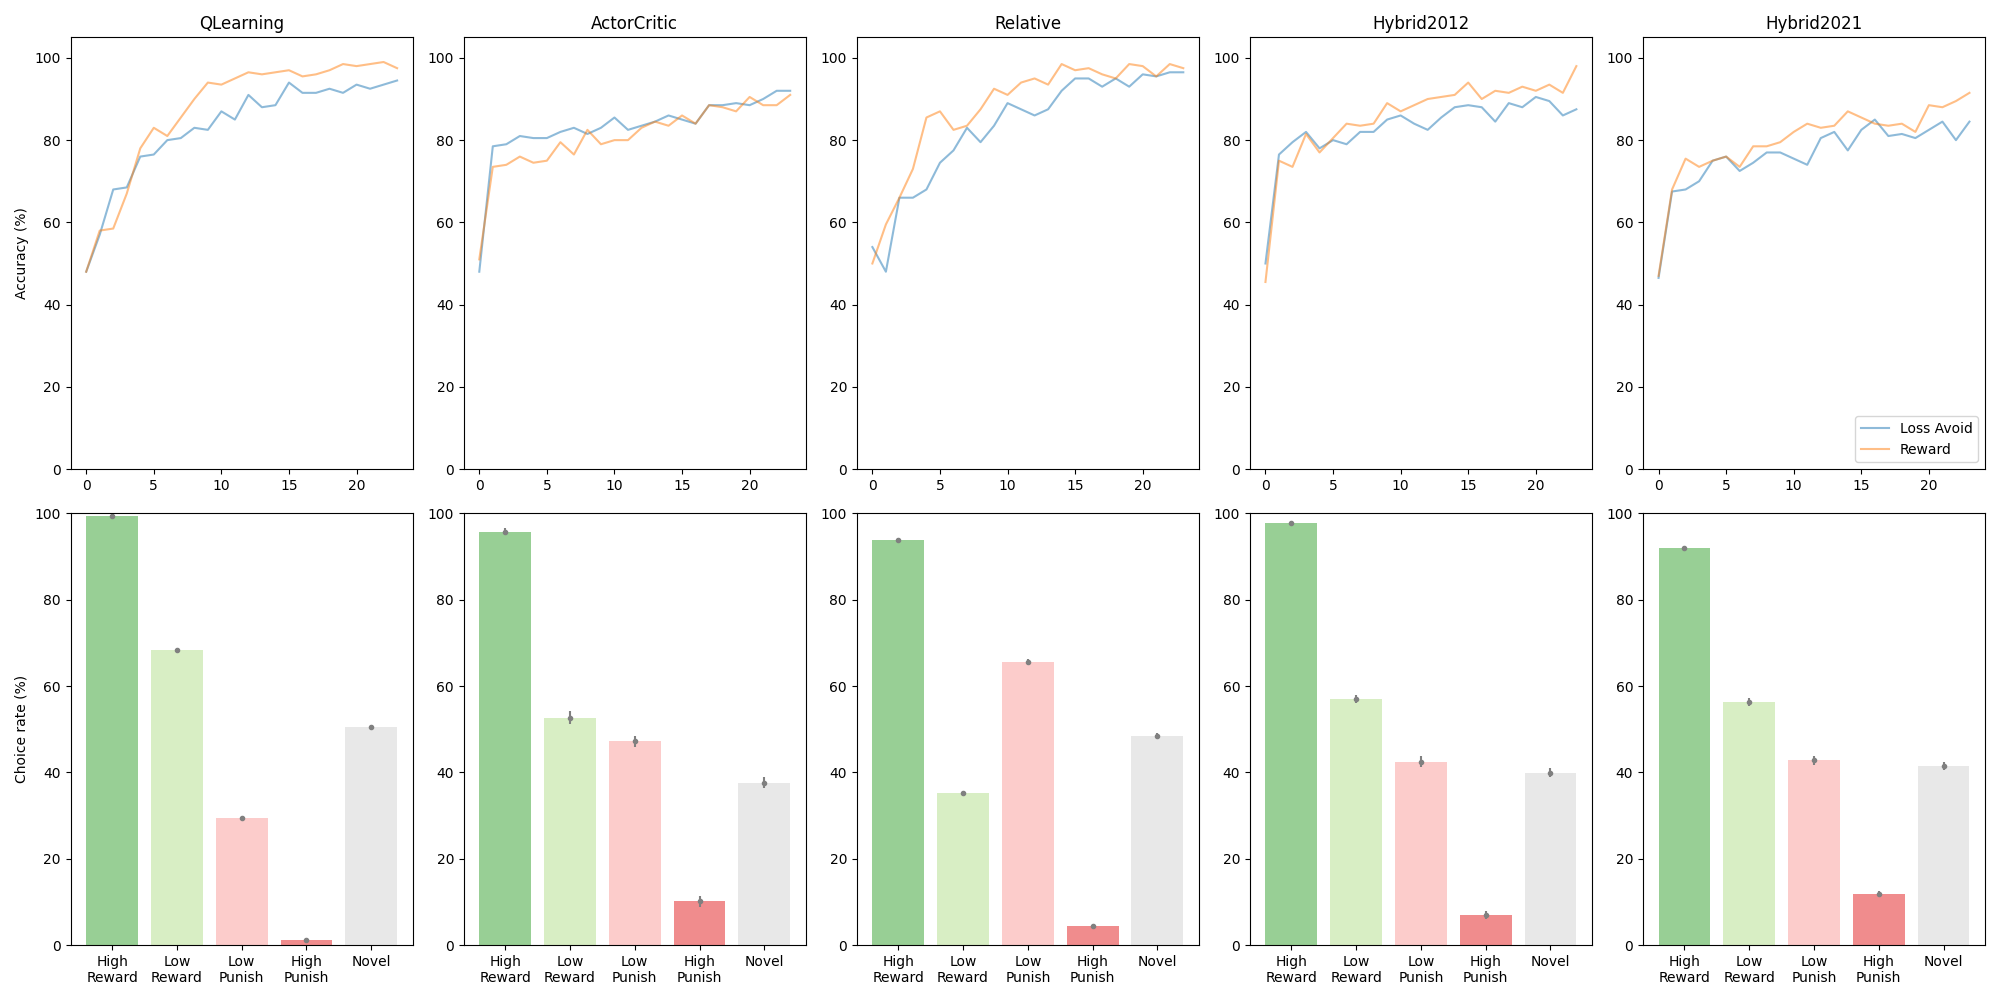
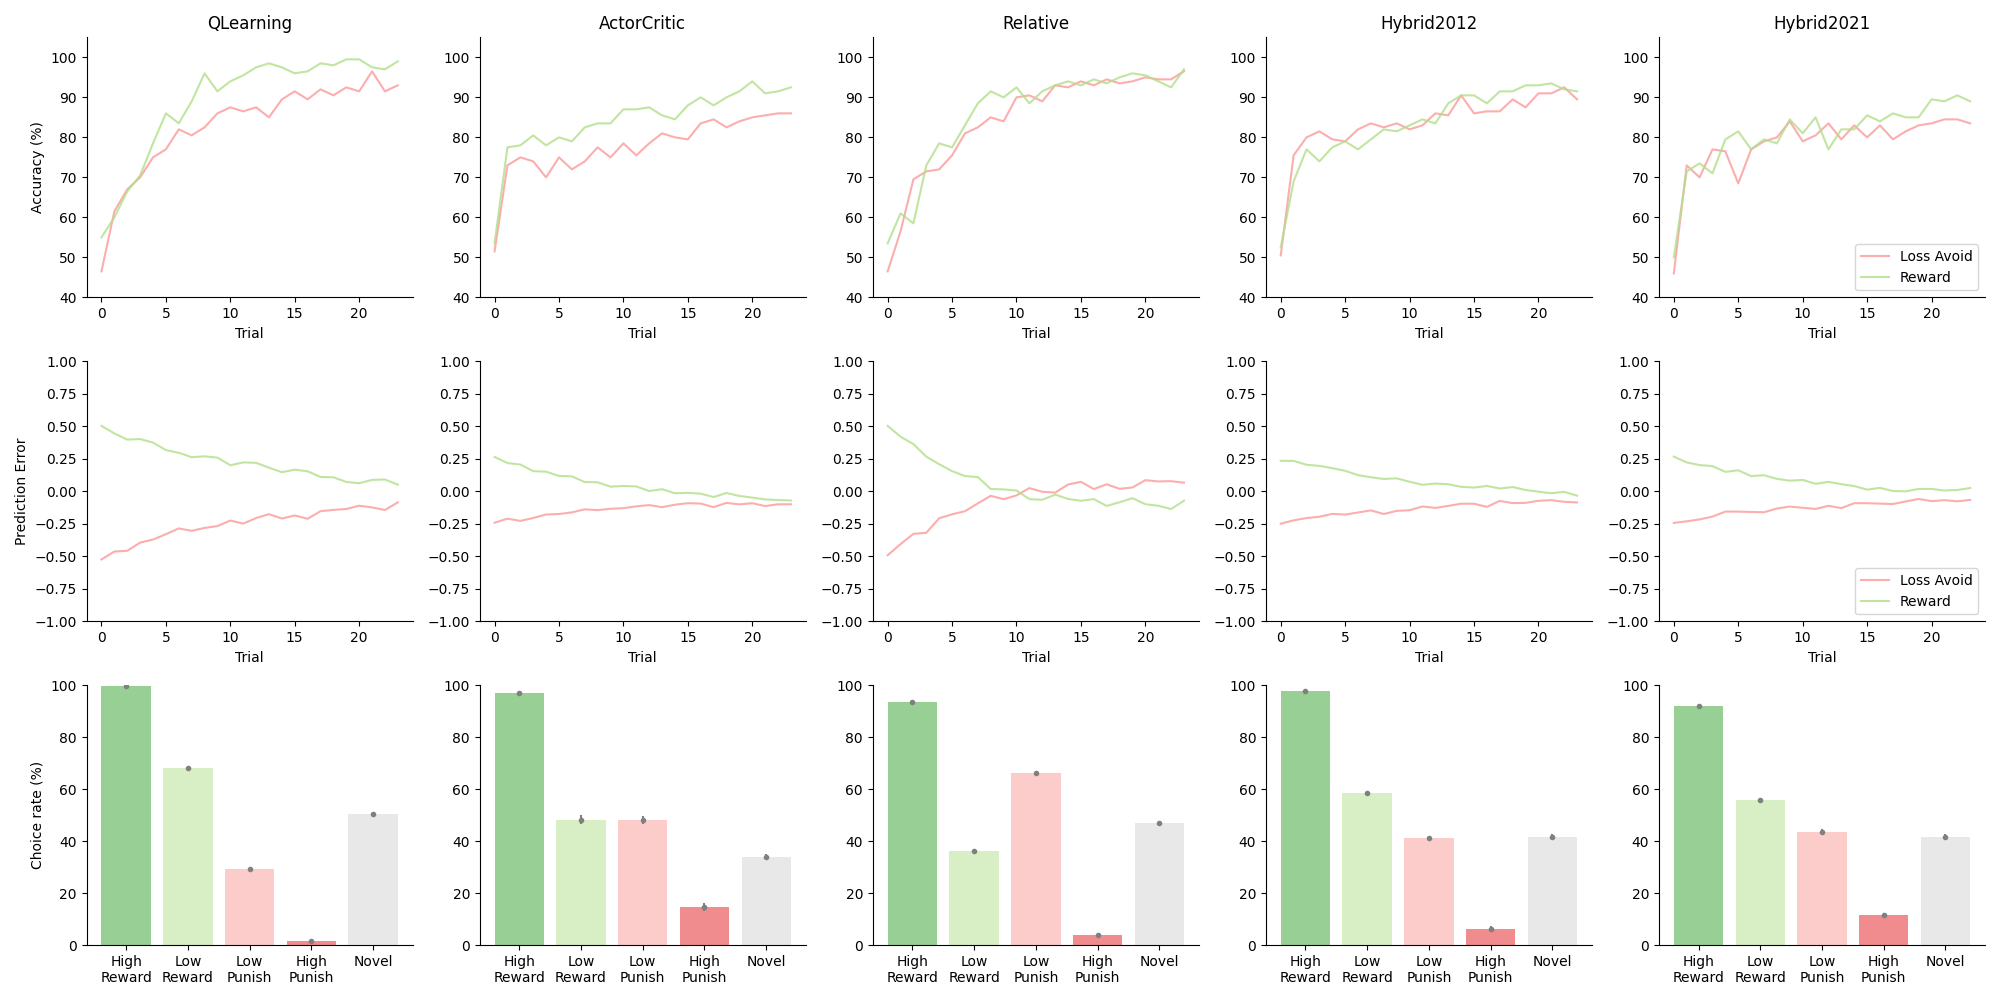
Added prediction error plots

diff --git a/SOMA_RL/SOMA_RL_main.py b/SOMA_RL/SOMA_RL_main.py
@@ -48,8 +48,10 @@ if __name__ == "__main__":
     models = ['QLearning', 'ActorCritic', 'Relative', 'Hybrid2012', 'Hybrid2021']
 
     transfer_columns = ['A', 'B', 'E', 'F', 'N']
-    learning_columns = ['context', 'trial_total', 'accuracy']
+    accuracy_columns = ['context', 'trial_total', 'accuracy']
+    pe_columns = ['context', 'trial_total', 'averaged_pe']
     accuracy = {m: [] for m in models}
+    prediction_errors = {m: [] for m in models}
     choice_rates = {m: [] for m in models}
     loop = tqdm.tqdm(range(number_of_runs*len(models)))
     for n in range(number_of_runs):
@@ -110,24 +112,34 @@ if __name__ == "__main__":
             #Extract model data
             task_learning_data = model.task_learning_data
             task_learning_data['trial_total'] = task_learning_data.groupby('state_id').cumcount()+1
+            if 'v_prediction_errors' in task_learning_data.columns:
+                task_learning_data['prediction_errors'] = task_learning_data['v_prediction_errors'] + task_learning_data['q_prediction_errors']
+            task_learning_data['averaged_pe'] = task_learning_data['prediction_errors'].apply(lambda x: sum(x)/len(x))
             learning_accuracy = task_learning_data.groupby(['context', 'trial_total'])['accuracy'].mean().reset_index()
+            learning_prediction_errors = task_learning_data.groupby(['context', 'trial_total'])['averaged_pe'].mean().reset_index()
             if not type(choice_rates[m]) == pd.DataFrame:
-                accuracy[m] = pd.DataFrame(learning_accuracy, columns=learning_columns)
+                accuracy[m] = pd.DataFrame(learning_accuracy, columns=accuracy_columns)
+                prediction_errors[m] = pd.DataFrame(learning_prediction_errors, columns=pe_columns)
                 choice_rates[m] = pd.DataFrame([model.choice_rate], columns=transfer_columns)
             else:
                 accuracy[m] = pd.concat([accuracy[m], pd.DataFrame(learning_accuracy)], ignore_index=True)
+                prediction_errors[m] = pd.concat([prediction_errors[m], pd.DataFrame(learning_prediction_errors)], ignore_index=True)
                 choice_rates[m] = pd.concat([choice_rates[m], pd.DataFrame([model.choice_rate])], ignore_index=True)
 
     #Plot simulations    
     colors = ['#33A02C', '#B2DF8A', '#FB9A99', '#E31A1C', '#D3D3D3']
-    fig, ax = plt.subplots(2, len(models), figsize=(4*len(models), 10))
+    bi_colors = ['#FB9A99', '#B2DF8A']
+    fig, ax = plt.subplots(3, len(models), figsize=(4*len(models), 10))
     for i, m in enumerate(models):
+
+        #Plot accuracy
         model_accuracy = accuracy[m].groupby(['context','trial_total']).mean().reset_index()
+        model_accuracy['context'] = pd.Categorical(model_accuracy['context'], categories=['Reward', 'Loss Avoid'], ordered=True)
         for ci, context in enumerate(model_accuracy['context'].unique()):
             context_accuracy = model_accuracy[model_accuracy['context'] == context]['accuracy'].reset_index(drop=True)
-            ax[0, i].plot(context_accuracy*100, color=['#33A02C','#E31A1C'][ci], alpha = .5, label=context)
+            ax[0, i].plot(context_accuracy*100, color=bi_colors[ci], alpha = .8, label=context)
         ax[0, i].set_title(m)
-        ax[0, i].set_ylim([0, 105])
+        ax[0, i].set_ylim([40, 105])
         if i == 0:
             ax[0, i].set_ylabel('Accuracy (%)')
         ax[0, i].set_xlabel('Trial')
@@ -136,13 +148,29 @@ if __name__ == "__main__":
         ax[0, i].spines['top'].set_visible(False)
         ax[0, i].spines['right'].set_visible(False)
 
-        ax[1, i].bar(['High\nReward', 'Low\nReward', 'Low\nPunish', 'High\nPunish', 'Novel'], choice_rates[m].mean(axis=0), color=colors, alpha = .5)
-        ax[1, i].errorbar(['High\nReward', 'Low\nReward', 'Low\nPunish', 'High\nPunish', 'Novel'], choice_rates[m].mean(axis=0), yerr=choice_rates[m].sem(), fmt='.', color='grey')
-        ax[1, i].set_ylim([0, 100])
+        #Plot prediction errors
+        model_pe = prediction_errors[m].groupby(['context','trial_total']).mean().reset_index()
+        model_pe['context'] = pd.Categorical(model_pe['context'], categories=['Reward', 'Loss Avoid'], ordered=True)
+        for ci, context in enumerate(model_pe['context'].unique()):
+            context_pe = model_pe[model_pe['context'] == context]['averaged_pe'].reset_index(drop=True)
+            ax[1, i].plot(context_pe, color=bi_colors[ci], alpha = .8, label=context)
+        ax[1, i].set_ylim([-1, 1])
         if i == 0:
-            ax[1, i].set_ylabel('Choice rate (%)')
+            ax[1, i].set_ylabel('Prediction Error')
+        ax[1, i].set_xlabel('Trial')
+        if i == len(models)-1:
+            ax[1, i].legend(loc='lower right')
         ax[1, i].spines['top'].set_visible(False)
         ax[1, i].spines['right'].set_visible(False)
+
+        #Plot choice rates
+        ax[2, i].bar(['High\nReward', 'Low\nReward', 'Low\nPunish', 'High\nPunish', 'Novel'], choice_rates[m].mean(axis=0), color=colors, alpha = .5)
+        ax[2, i].errorbar(['High\nReward', 'Low\nReward', 'Low\nPunish', 'High\nPunish', 'Novel'], choice_rates[m].mean(axis=0), yerr=choice_rates[m].sem(), fmt='.', color='grey')
+        ax[2, i].set_ylim([0, 100])
+        if i == 0:
+            ax[2, i].set_ylabel('Choice rate (%)')
+        ax[2, i].spines['top'].set_visible(False)
+        ax[2, i].spines['right'].set_visible(False)
     fig.tight_layout()
     fig.savefig(os.path.join('SOMA_RL','plots','model_simulations.png'))
     plt.show()

diff --git a/SOMA_RL/helpers/rl_models.py b/SOMA_RL/helpers/rl_models.py
@@ -104,7 +104,7 @@ class RLToolbox:
 
         prediction_errors = state['v_prediction_errors'] if 'Hybrid' in self.__class__.__name__ else state['prediction_errors']
 
-        new_v_values = state['v_values'][0] + (self.critic_lr * prediction_errors[state['action']])
+        new_v_values = state['v_values'][0] + (self.critic_lr * prediction_errors[state['action']]) #TODO: Should we use the averaged prediction error or the selected action's prediction error?
 
         self.v_values[state['state_id']] = pd.concat([self.v_values[state['state_id']],
                                                       pd.DataFrame([new_v_values], 
